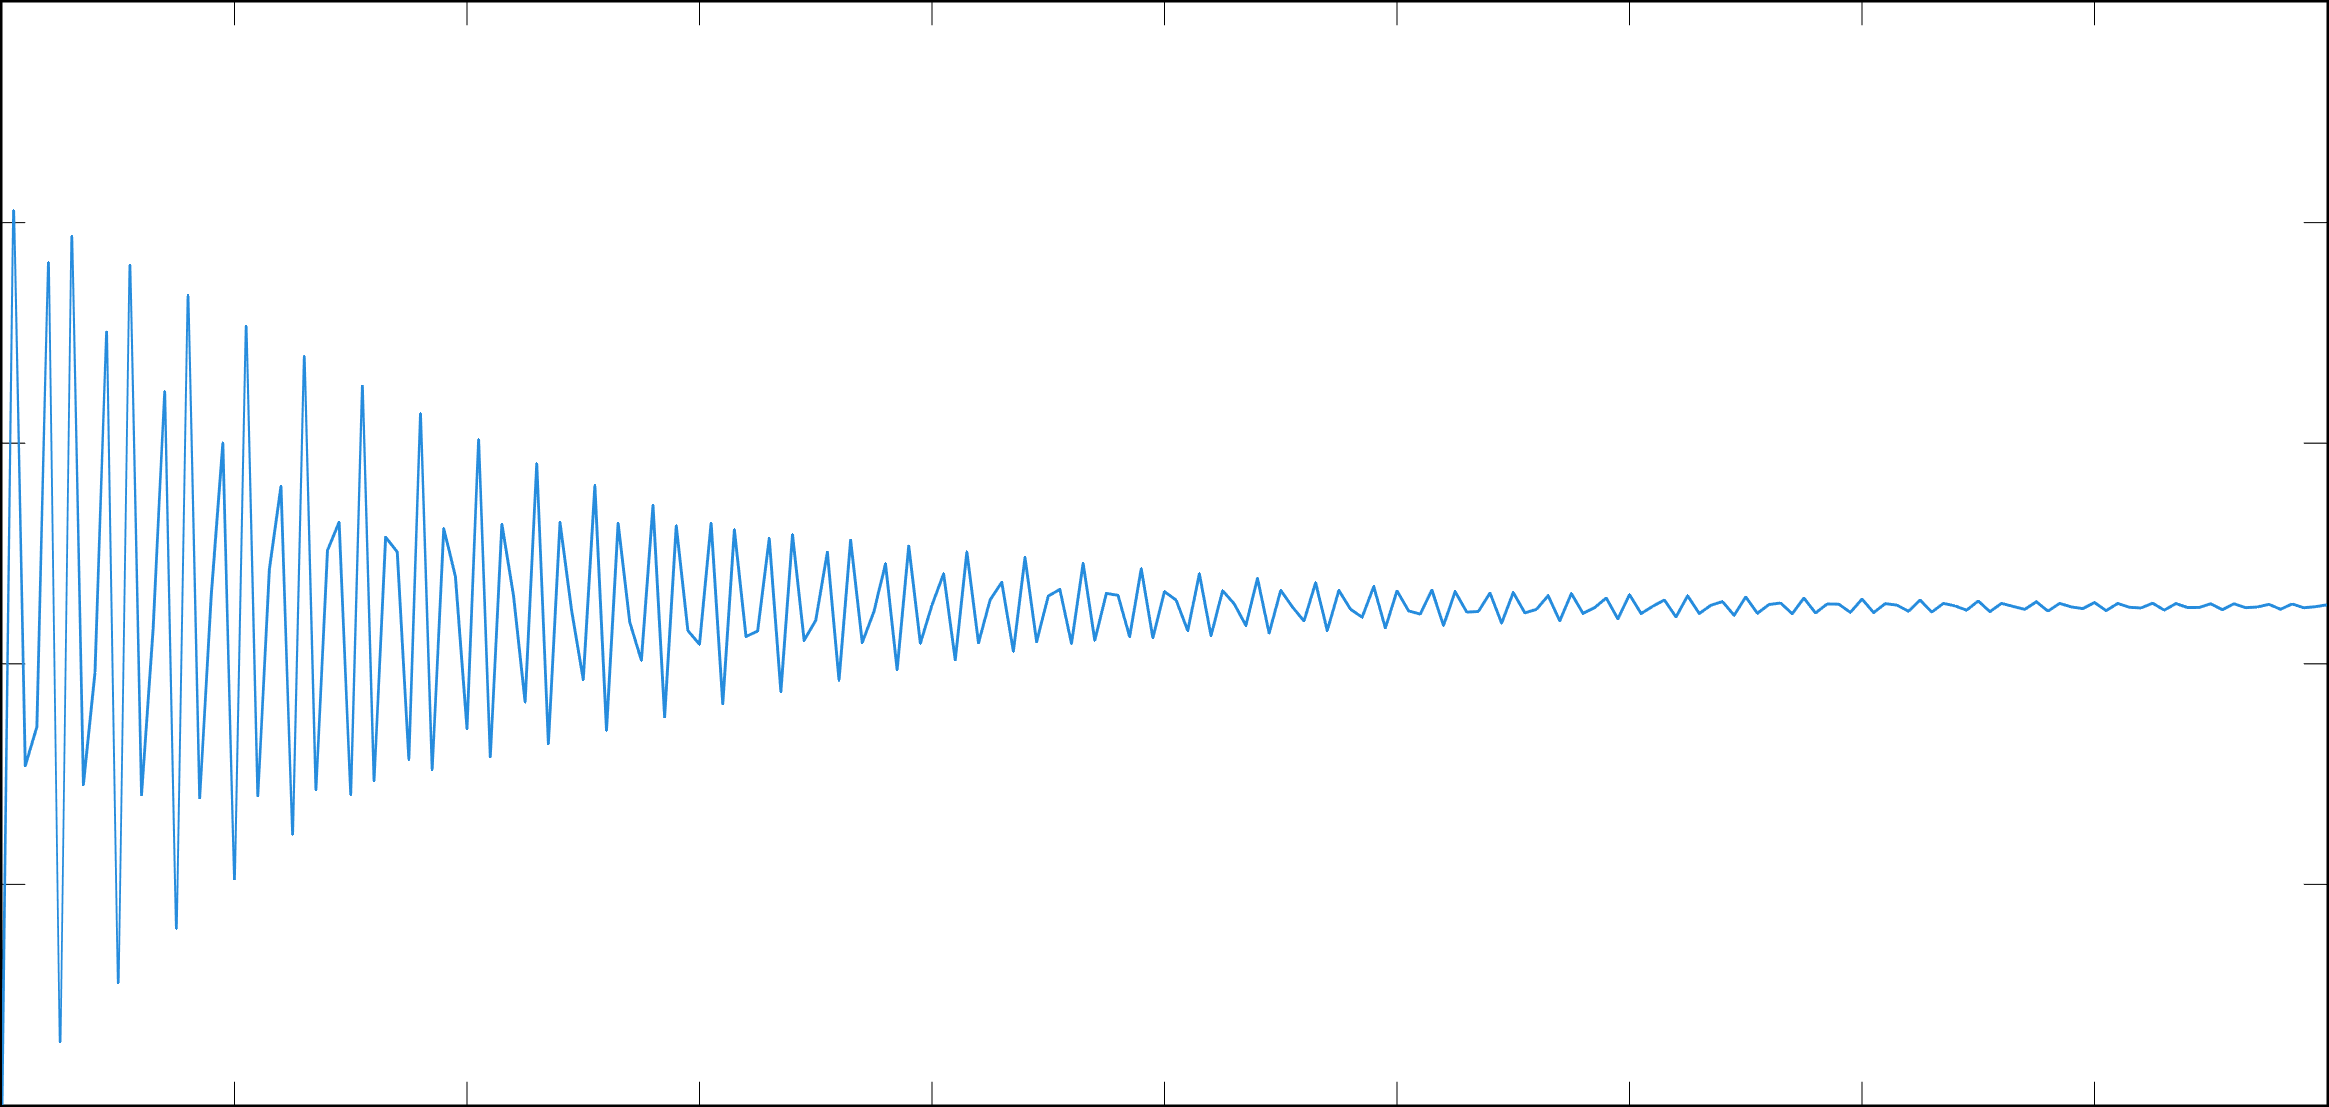
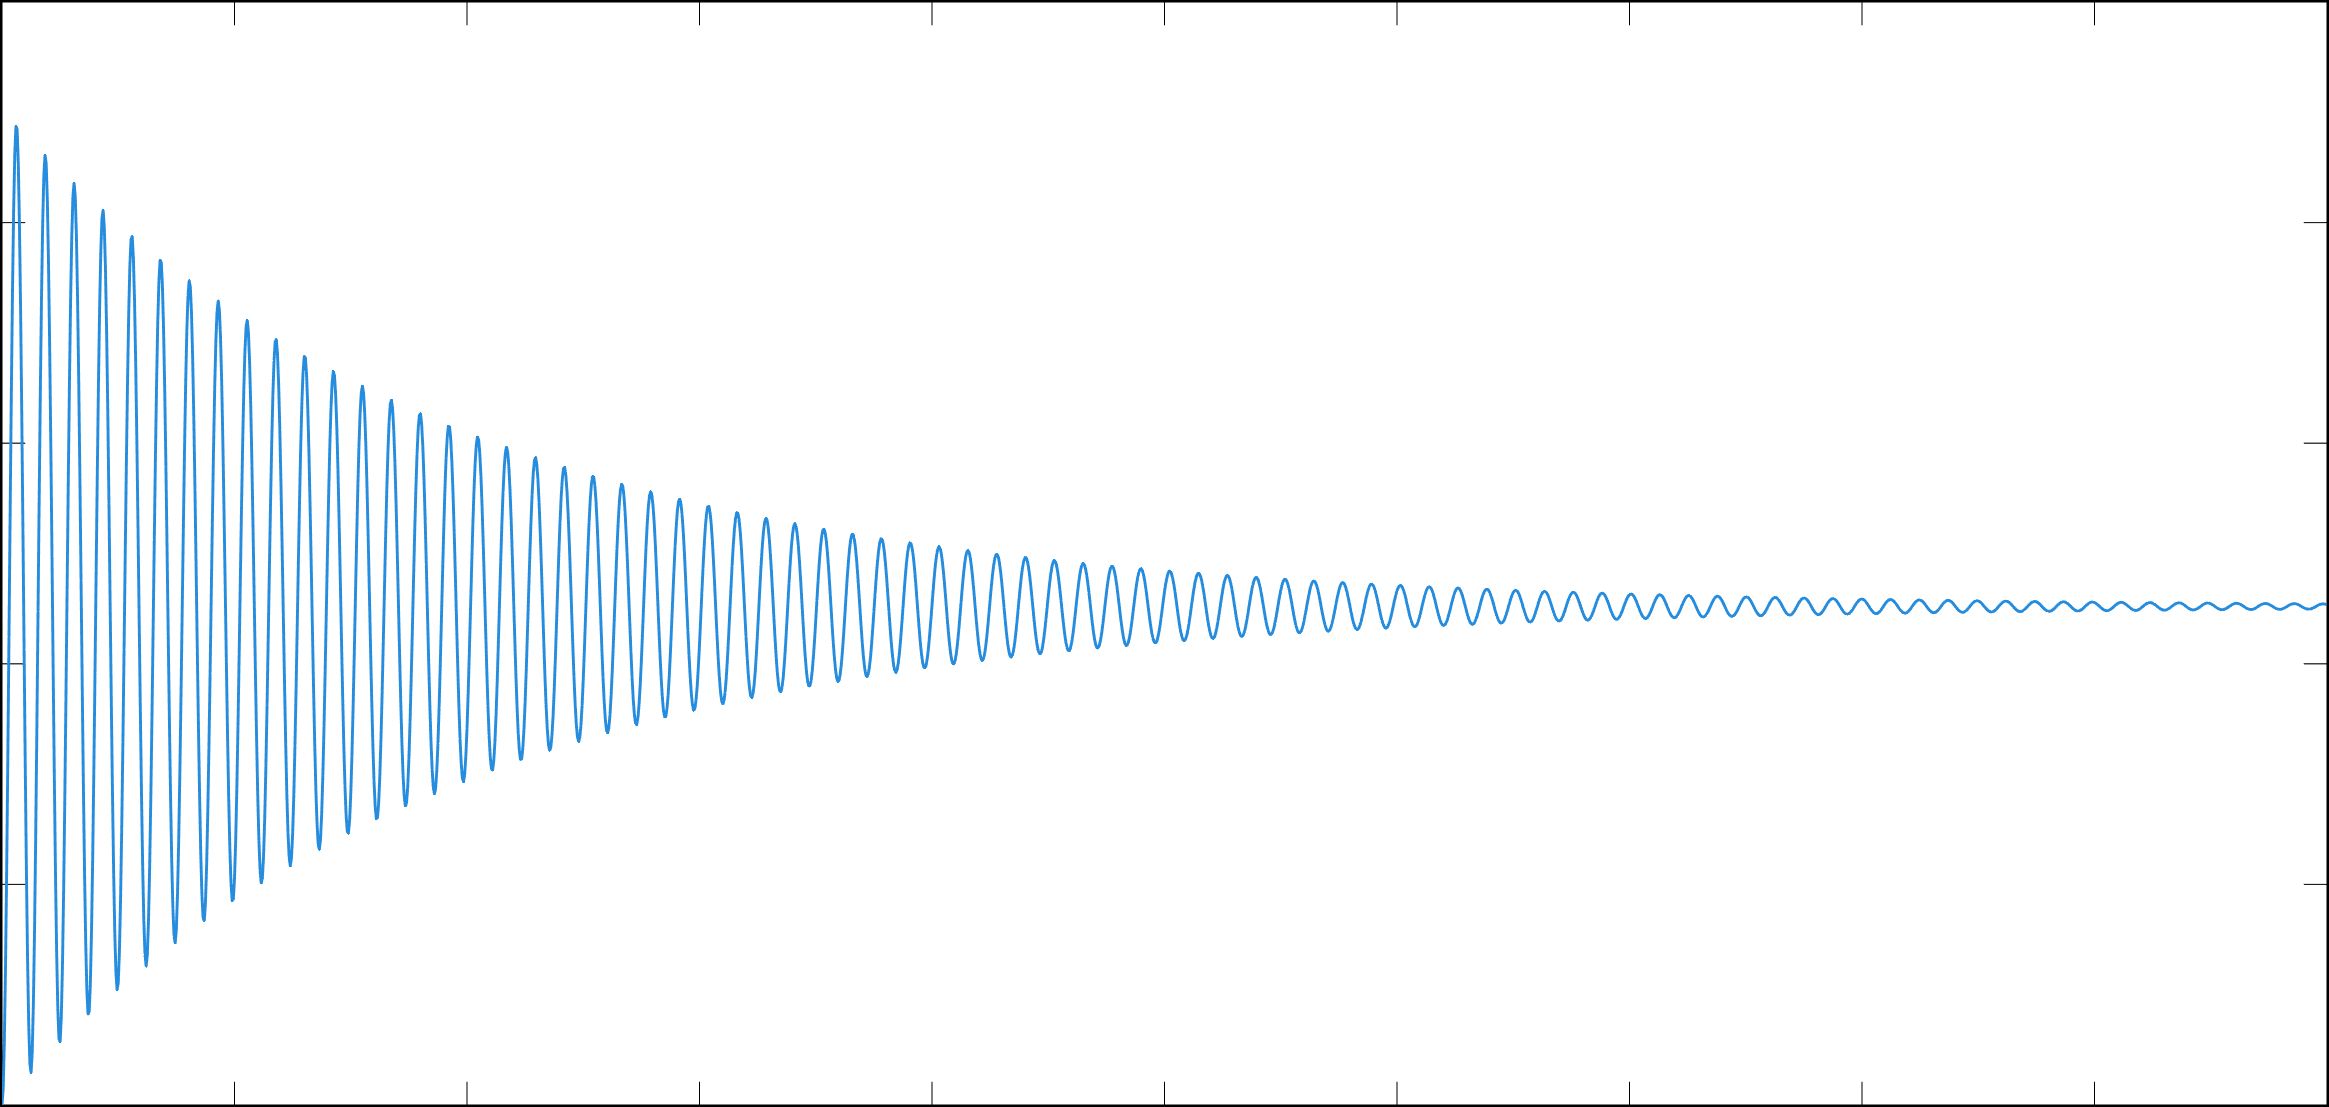
This is definitely better

Changed region(s): [[0.0, 0.1229, 1.0, 0.9521]]

diff --git a/ee582/main.m b/ee582/main.m
@@ -38,7 +38,10 @@ Z = r_L + 1j*X
 I_ph = V_ph/Z
 Q_kVAr = 3*abs(I_ph)^2*X*1e-3
 phi = acos(zeta)
-t = 0:0.001:0.2;
+T_horizon_s = 0.2;
+h_ms = 0.1;
+h_s = h_ms*1e-3;
+t = 0:h_s:T_horizon_s;
 x_ss_kV = 11.3;
 x_t_kV = x_ss_kV * (1 - (1/sqrt(1-zeta^2)) * exp(-zeta*w_n*t) .* sin(w_d*t + phi));
 plot(t, x_t_kV)
